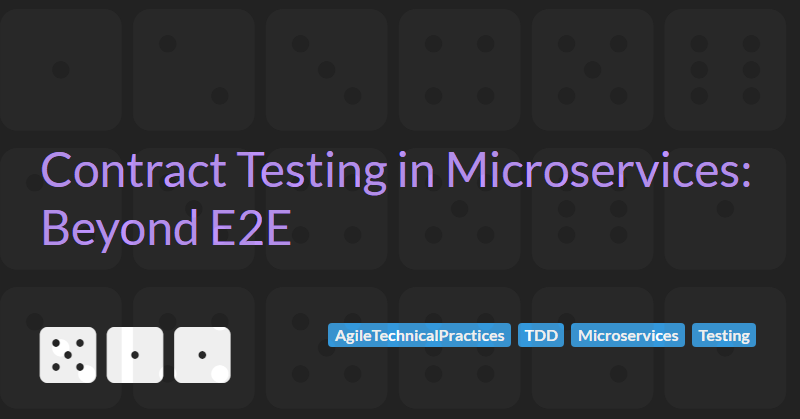
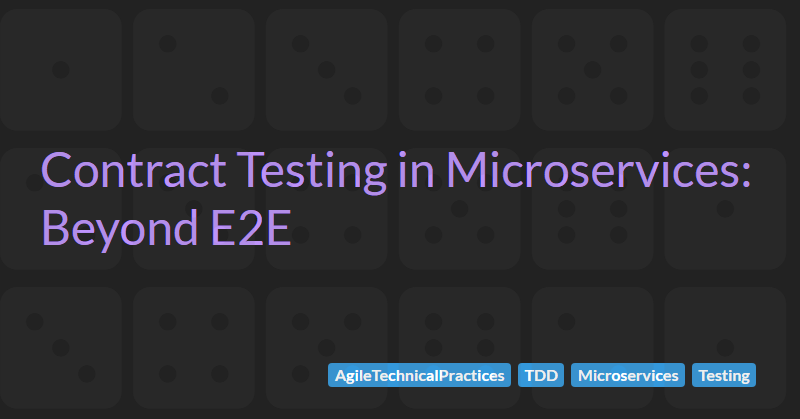
Blog Update 1590

Changed region(s): [[0.4062, 0.7446, 0.9688, 0.8377], [0.0312, 0.7757, 0.3125, 0.9308], [0.4062, 0.8687, 0.9688, 0.9308]]

diff --git a/Blog/AgileTechnicalPractices/RunningLagunaS21OnAGMKtecEVOX2.html b/Blog/AgileTechnicalPractices/RunningLagunaS21OnAGMKtecEVOX2.html
@@ -275,7 +275,7 @@ Invoke-RestMethod `
 <p>The finished stack looks like this:</p>
 <pre class="mermaid">flowchart TD
     A[OpenCode] -->|OpenAI-compatible API| B[llama-server and ROCmFPX]
-    B -->|ROCm or Vulkan| C[Radeon 8060S, ~110 GB]
+    B -->|ROCm or Vulkan| C[Radeon 8060S, 110 GB]
     C --> D[Laguna S 2.1 Q4_K_M]
 </pre>
 <h2 id="next-steps">Next Steps</h2>
